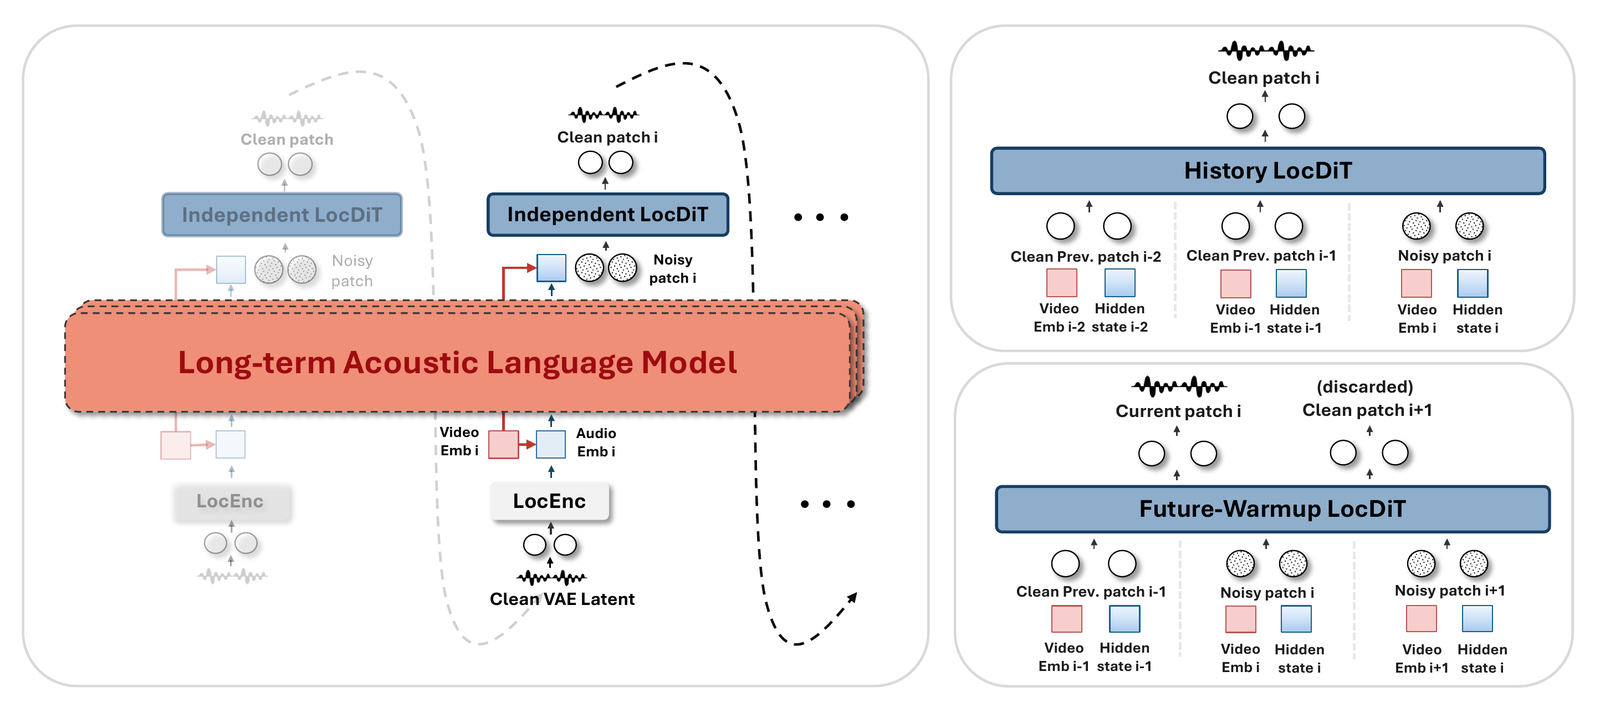
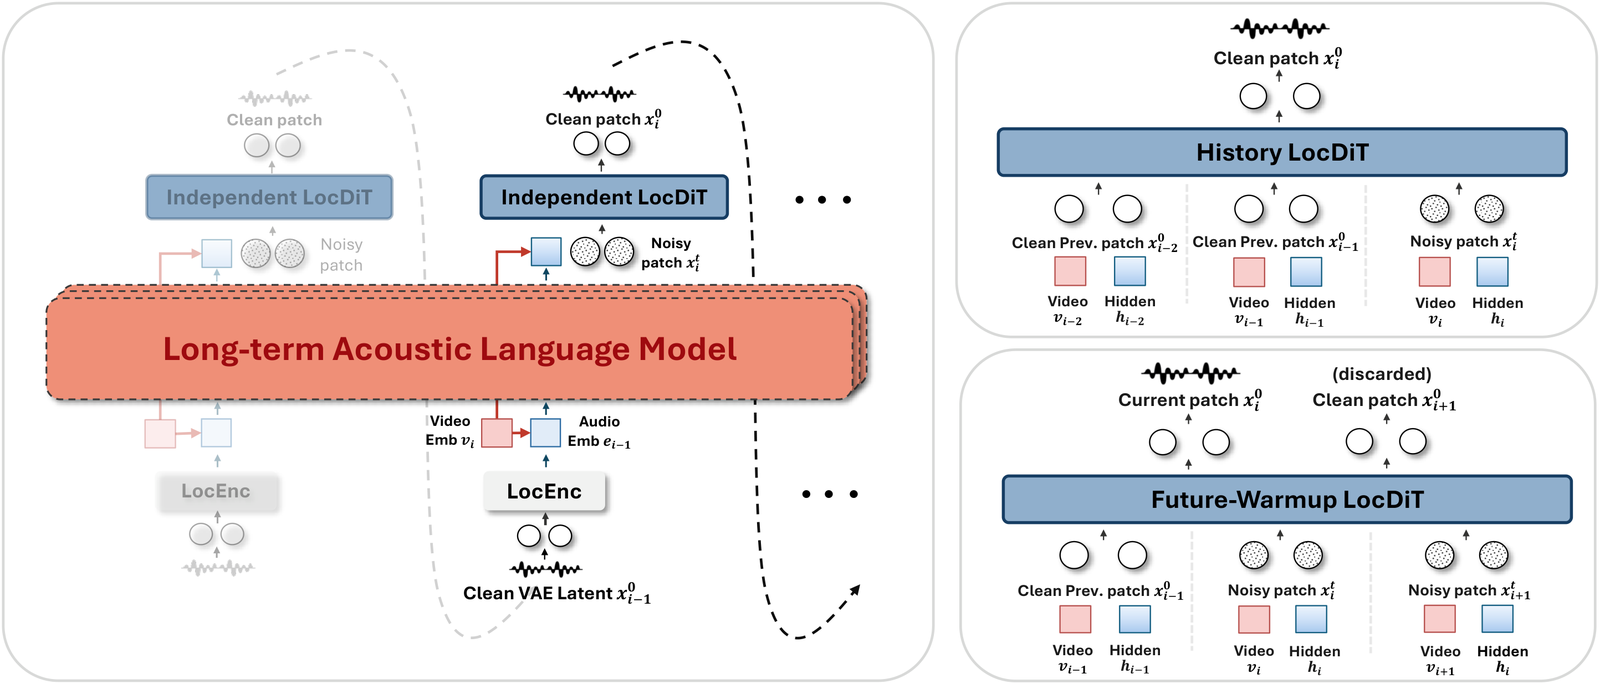
De-anonymize for arXiv: real author list, arXiv/Code coming-soon buttons, updated backend and listening-test figures
Claude-Session: https://claude.ai/code/session_01JXRxKMFDLv8MXazscw91pW

diff --git a/index.html b/index.html
@@ -330,6 +330,8 @@ p.sub-desc{color:var(--text2);font-size:15px;max-width:1000px;margin-bottom:20px
 .authors{font-size:clamp(17px,1.45vw,20px);color:var(--text)}
 .authors a{color:var(--text);border-bottom:1px solid var(--border-strong);transition:border-color .15s}
 .authors a:hover{text-decoration:none;border-color:var(--accent)}
+.affils a{color:inherit;border-bottom:1px solid var(--border-strong);transition:border-color .15s}
+.affils a:hover{text-decoration:none;border-color:var(--accent)}
 .authors sup,.affils sup{font-size:.68em;color:var(--muted)}
 .affils{color:var(--muted);font-size:clamp(14.5px,1.15vw,16.5px);margin-top:8px}
 .authors{line-height:1.7}
@@ -1100,20 +1102,24 @@ footer{padding:36px 0 56px;text-align:center;color:var(--muted);font-size:13.5px
   <h1><span class="live">Live</span>Foley</h1>
   <p class="subtitle">Dynamic Real-Time Video-to-Audio Generation <br>for Immersive Interactive Worlds</p>
 
-  <!-- anonymized for double-blind review (owner 2026-10-11); the original block is in _ref/authors_original.html -->
   <p class="authors">
-    <span class="au">Elmo Monster<sup>1</sup>,</span>
-    <span class="au">Big Bird<sup>2,&dagger;</sup>,</span>
-    <span class="au">Cookie Monster<sup>1,3</sup>,</span>
-    <span class="au">Bert Muppet<sup>4</sup>,</span>
-    <span class="au">Ernie Muppet<sup>4</sup>,</span><br class="br-wide">
-    <span class="au">Bunsen Honeydew<sup>5</sup>,</span>
-    <span class="au">Beaker<sup>5</sup>,</span>
-    <span class="au">Grover Monster<sup>2</sup>,</span>
-    <span class="au">Kermit T. Frog<sup>6</sup></span>
+    <span class="au"><a href="https://dalision.github.io/" target="_blank" rel="noopener">Yusheng Dai</a><sup>1,3</sup>,</span>
+    <span class="au"><a href="https://v-iashin.github.io/" target="_blank" rel="noopener">Vladimir Iashin</a><sup>4</sup>,</span>
+    <span class="au"><a href="https://dddpg.github.io/" target="_blank" rel="noopener">Kangdi Wang</a><sup>5</sup>,</span>
+    <span class="au"><a href="https://jiangyux25.github.io/" target="_blank" rel="noopener">Yuxuan Jiang</a><sup>6</sup>,</span>
+    <span class="au"><a href="https://ilpoviertola.github.io/" target="_blank" rel="noopener">Ilpo Viertola</a><sup>4</sup>,</span><br class="br-wide">
+    <span class="au"><a href="./">Weiqiang Wang</a><sup>1</sup>,</span>   <!-- no homepage: links back to this page -->
+    <span class="au"><a href="https://qiuhongke.github.io/" target="_blank" rel="noopener">Qiuhong Ke</a><sup>1</sup>,</span>
+    <span class="au"><a href="https://gracezhao1997.github.io/" target="_blank" rel="noopener">Min Zhao</a><sup>2,&dagger;</sup>,</span>
+    <span class="au"><a href="https://jianfei-cai.github.io/" target="_blank" rel="noopener">Jianfei Cai</a><sup>1</sup></span>
   </p>
-  <p class="affils"><span class="au"><sup>1</sup>Sesame Street University</span> <span class="au"><sup>2</sup>123 Sesame Institute</span> <span class="au"><sup>3</sup>Cookie Research Center</span><br class="br-wide"> <span class="au"><sup>4</sup>Rubber Duckie Lab</span> <span class="au"><sup>5</sup>Muppet Labs</span> <span class="au"><sup>6</sup>Fraggle Rock University</span></p>
+  <p class="affils"><span class="au"><sup>1</sup>Monash University</span> <span class="au"><sup>2</sup>Nanjing University</span> <span class="au"><sup>3</sup><a href="https://www.shengshu-ai.com/" target="_blank" rel="noopener">ShengShu Technology</a></span><br class="br-wide"> <span class="au"><sup>4</sup>Tampere University</span> <span class="au"><sup>5</sup>Alibaba Token Hub, Alibaba Group</span> <span class="au"><sup>6</sup>Tsinghua University</span></p>
   <p class="corr"><sup>&dagger;</sup>Corresponding author</p>
+  <div class="links">
+    <!-- TODO(arxiv): when announced, turn this into <a class="btn" href="https://arxiv.org/abs/..." target="_blank" rel="noopener"> and drop "(Coming Soon)" -->
+    <span class="btn soon" aria-disabled="true"><svg viewBox="0 0 24 24" fill="none" stroke="currentColor" stroke-width="2" stroke-linecap="round" stroke-linejoin="round" aria-hidden="true"><path d="M14 2H6a2 2 0 0 0-2 2v16a2 2 0 0 0 2 2h12a2 2 0 0 0 2-2V8z"/><path d="M14 2v6h6M8 13h8M8 17h5"/></svg>arXiv (Coming Soon)</span>
+    <span class="btn soon" aria-disabled="true"><svg viewBox="0 0 16 16" fill="currentColor" aria-hidden="true"><path d="M8 0C3.58 0 0 3.58 0 8c0 3.54 2.29 6.53 5.47 7.59.4.07.55-.17.55-.38 0-.19-.01-.82-.01-1.49-2.01.37-2.53-.49-2.69-.94-.09-.23-.48-.94-.82-1.13-.28-.15-.68-.52-.01-.53.63-.01 1.08.58 1.23.82.72 1.21 1.87.87 2.33.66.07-.52.28-.87.51-1.07-1.78-.2-3.64-.89-3.64-3.95 0-.87.31-1.59.82-2.15-.08-.2-.36-1.02.08-2.12 0 0 .67-.21 2.2.82.64-.18 1.32-.27 2-.27.68 0 1.36.09 2 .27 1.53-1.04 2.2-.82 2.2-.82.44 1.1.16 1.92.08 2.12.51.56.82 1.27.82 2.15 0 3.07-1.87 3.75-3.65 3.95.29.25.54.73.54 1.48 0 1.07-.01 1.93-.01 2.2 0 .21.15.46.55.38A8.013 8.013 0 0 0 16 8c0-4.42-3.58-8-8-8z"/></svg>Code (Coming Soon)</span>
+  </div>
 
   <!-- jump buttons (CineDub style): click scrolls down to the section -->
   <nav class="hero-nav" aria-label="Page sections">
@@ -1124,8 +1130,6 @@ footer{padding:36px 0 56px;text-align:center;color:var(--muted);font-size:13.5px
     <a href="#compare"><span class="nav-arrow" aria-hidden="true">&darr;</span> Comparison</a>
     <div class="intro-load" hidden aria-hidden="true"><span class="il-track"><i></i></span><span class="il-txt">Preparing demos</span></div>
   </nav>
-
-  <!-- TODO(links): add Paper / arXiv / Code / Listen buttons when available (.links/.btn styles kept) -->
 
 </div>
 </header>
@@ -1194,9 +1198,9 @@ footer{padding:36px 0 56px;text-align:center;color:var(--muted);font-size:13.5px
         <div class="s3d-body"><img src="static/figs/sm/frontend.png" width="2850" height="1026" alt="Chunked window vs trailing sliding window vs unified varhop" loading="lazy"></div>
         <img class="s3d-thumb" src="static/figs/th/frontend.jpg" alt="" loading="lazy"><span class="s3d-name">Visual frontend</span>
         <button type="button" class="s3d-hit" aria-controls="method-panel" aria-label="Streaming visual frontend figure"></button></div></div>
-      <div class="s3d-item" data-zoom="static/figs/backend.png"><div class="s3d-card">
-        <div class="s3d-body"><img src="static/figs/sm/backend.png" width="2887" height="1284" alt="Continuous AR backbone with Independent, History and Future-Warmup LocDiT" loading="lazy"></div>
-        <img class="s3d-thumb" src="static/figs/th/backend.jpg" alt="" loading="lazy"><span class="s3d-name">Audio backend</span>
+      <div class="s3d-item" data-zoom="static/figs/backend.png?v=1026"><div class="s3d-card">
+        <div class="s3d-body"><img src="static/figs/sm/backend.png?v=1026" width="2887" height="1235" alt="Continuous AR backbone with Independent, History and Future-Warmup LocDiT" loading="lazy"></div>
+        <img class="s3d-thumb" src="static/figs/th/backend.jpg?v=1026" alt="" loading="lazy"><span class="s3d-name">Audio backend</span>
         <button type="button" class="s3d-hit" aria-controls="method-panel" aria-label="Audio backend figure"></button></div></div>
       <span class="s3d-lbl" aria-hidden="true">Motivation</span><span class="s3d-lbl" aria-hidden="true">Streaming visual frontend</span><span class="s3d-lbl" aria-hidden="true">Audio backend</span>
     </div>
@@ -1263,9 +1267,9 @@ footer{padding:36px 0 56px;text-align:center;color:var(--muted);font-size:13.5px
   </div></div>
         <img class="s3d-thumb" src="static/figs/th/results_table.jpg" alt="" loading="lazy" style="object-position:left center"><span class="s3d-name">Objective metrics</span>
         <button type="button" class="s3d-hit" aria-controls="results-panel" aria-label="Objective metrics: system-level comparison table"></button></div></div>
-      <div class="s3d-item" data-zoom="static/figs/mos.png"><div class="s3d-card">
-        <div class="s3d-body"><img src="static/figs/sm/mos.png" width="2535" height="796" alt="Mean opinion scores for quality and alignment" loading="lazy"></div>
-        <img class="s3d-thumb" src="static/figs/th/mos.jpg" alt="" loading="lazy"><span class="s3d-name">Listening test</span>
+      <div class="s3d-item" data-zoom="static/figs/mos.png?v=1026"><div class="s3d-card">
+        <div class="s3d-body"><img src="static/figs/sm/mos.png?v=1026" width="2535" height="801" alt="Mean opinion scores for quality and alignment" loading="lazy"></div>
+        <img class="s3d-thumb" src="static/figs/th/mos.jpg?v=1026" alt="" loading="lazy"><span class="s3d-name">Listening test</span>
         <button type="button" class="s3d-hit" aria-controls="results-panel" aria-label="Listening test figure"></button></div></div>
       <div class="s3d-item"><div class="s3d-card">
     <div class="s3d-body"><div class="lat">
